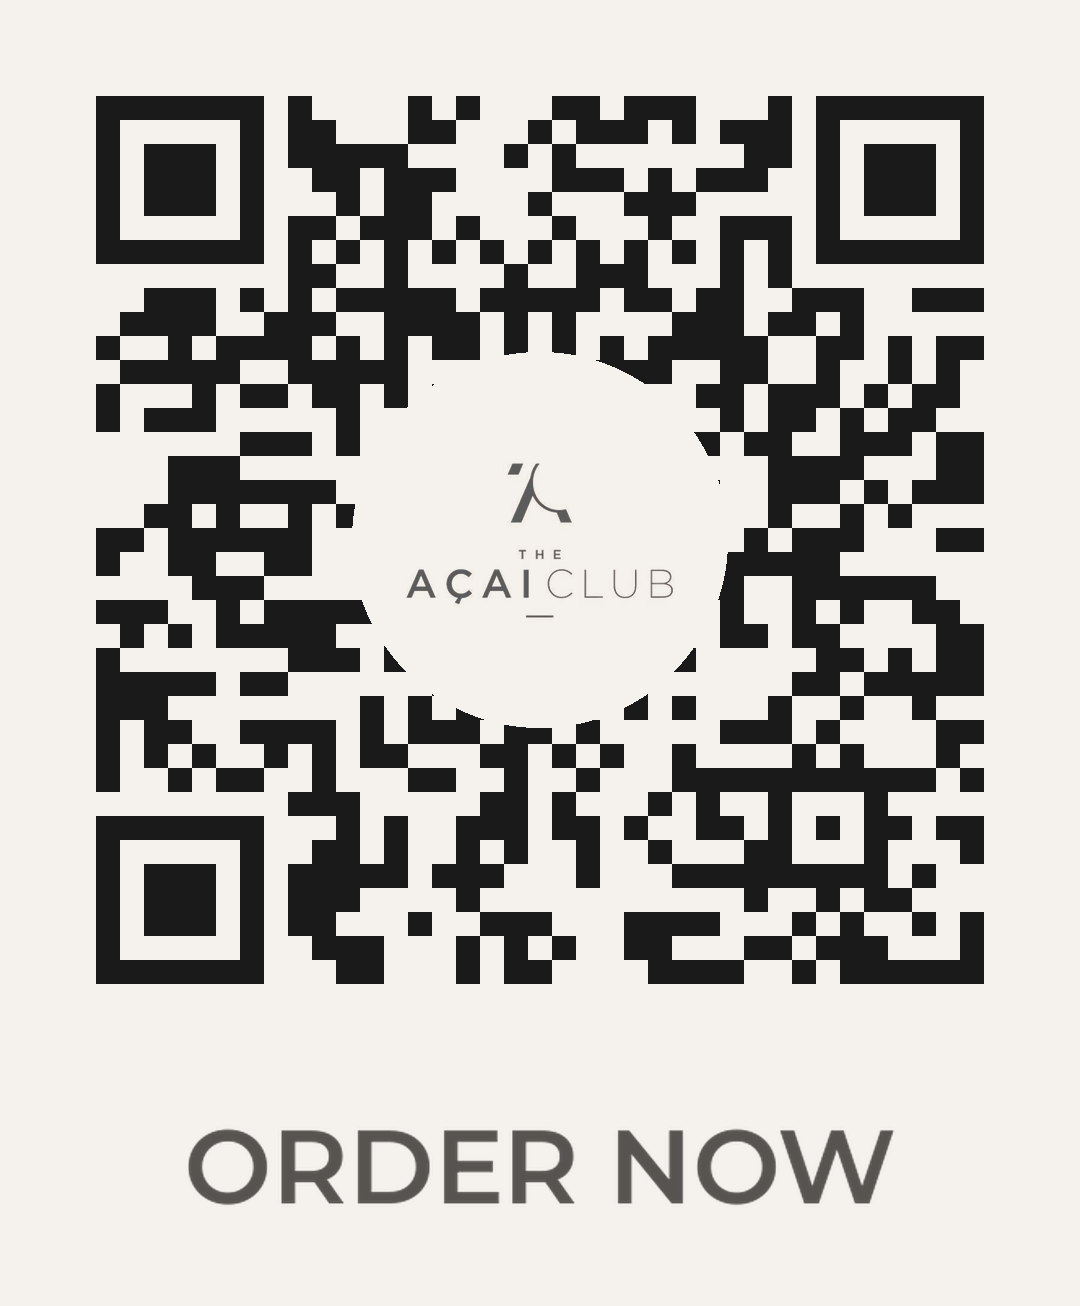
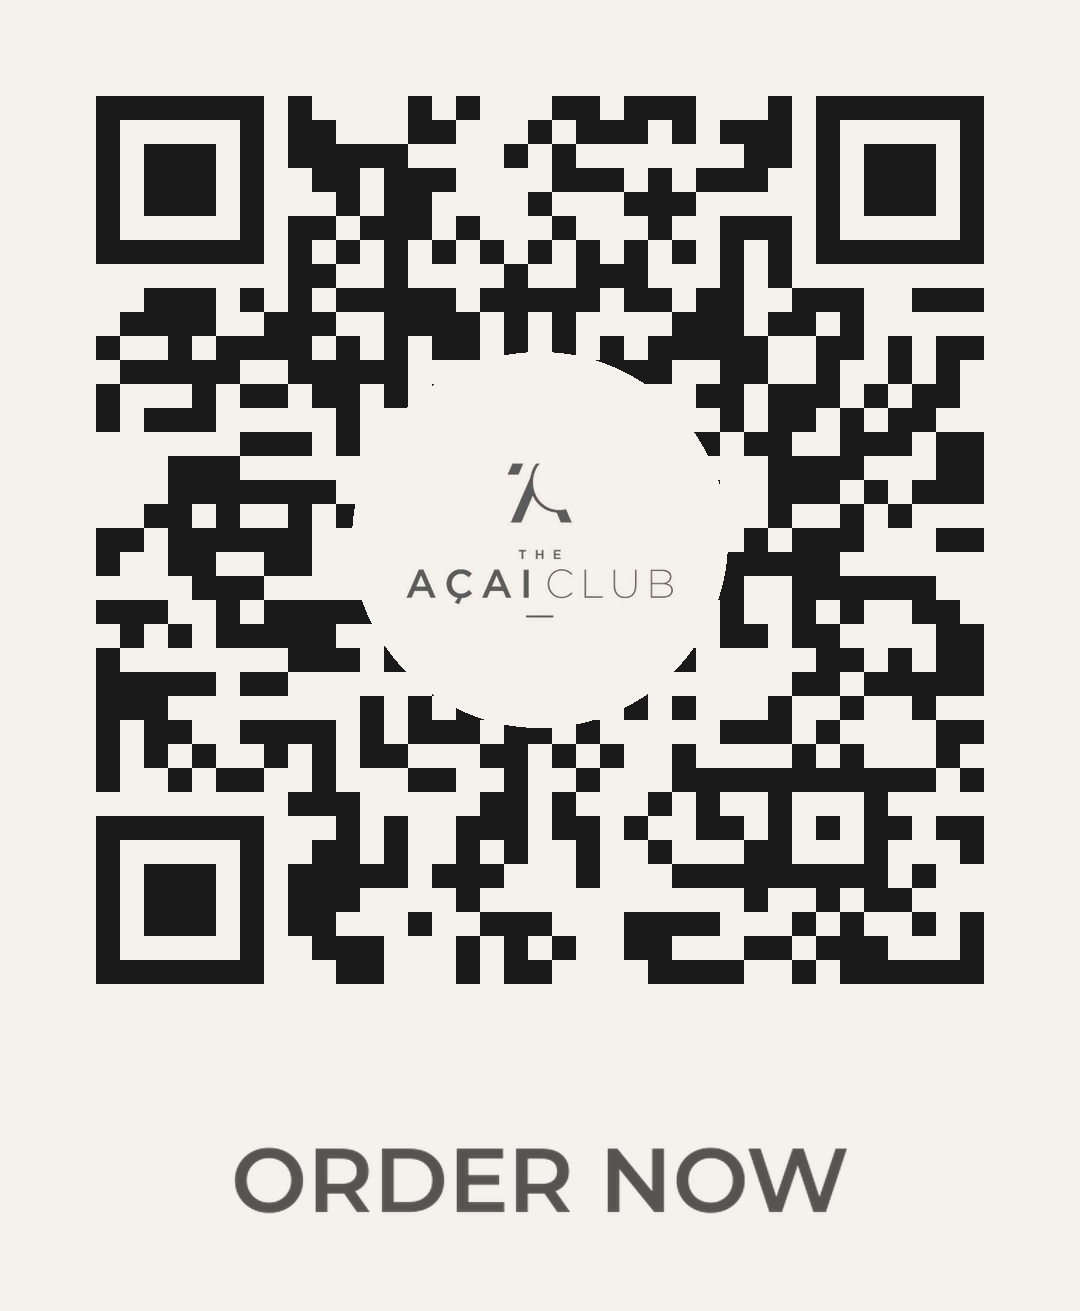
QR: stand captions scale to fixed letter height + fixed band -> all stands same size

diff --git a/qr/make-qr.py b/qr/make-qr.py
@@ -195,18 +195,25 @@ def make_stand(url, out_path, lines, icon="none"):
     mont = load_font(MONT, 64, weight=600) if os.path.exists(MONT) else None
     caption = label_block(lines, ink, icon_fn=None, font=mont)   # text-only, no icon
 
-    # scale caption to a comfortable width under the QR
-    target_w = int(W * 0.66)
-    if caption.size[0] != target_w:
-        sc = target_w / caption.size[0]
-        caption = caption.resize((int(caption.size[0] * sc), int(caption.size[1] * sc)), Image.LANCZOS)
+    # Scale to a fixed letter HEIGHT (not width) so every stand has the same text
+    # size and the same total height regardless of wording — fronts/flipsides match.
+    # Only shrink below that if the text would otherwise exceed the max width.
+    target_h = int(W * 0.105)
+    max_w = int(W * 0.86)
+    sc = target_h / caption.size[1]
+    if caption.size[0] * sc > max_w:
+        sc = max_w / caption.size[0]
+    caption = caption.resize((int(caption.size[0] * sc), int(caption.size[1] * sc)), Image.LANCZOS)
     cw, ch = caption.size
 
-    pad_top = int(W * 0.02)      # gap between QR and caption
+    # Fixed caption band so the canvas height is identical across stands.
+    band_h = int(W * 0.105)
+    pad_top = int(W * 0.04)      # gap between QR and caption band
     pad_bot = int(W * 0.07)      # breathing room under the caption
-    canvas = Image.new("RGB", (W, W + pad_top + ch + pad_bot), BG)
+    canvas = Image.new("RGB", (W, W + pad_top + band_h + pad_bot), BG)
     canvas.paste(qr, (0, 0))
-    canvas.paste(caption, ((W - cw) // 2, W + pad_top), caption)
+    cy = W + pad_top + (band_h - ch) // 2        # centre caption within the fixed band
+    canvas.paste(caption, ((W - cw) // 2, cy), caption)
     canvas.save(out_path)
     return out_path
 
